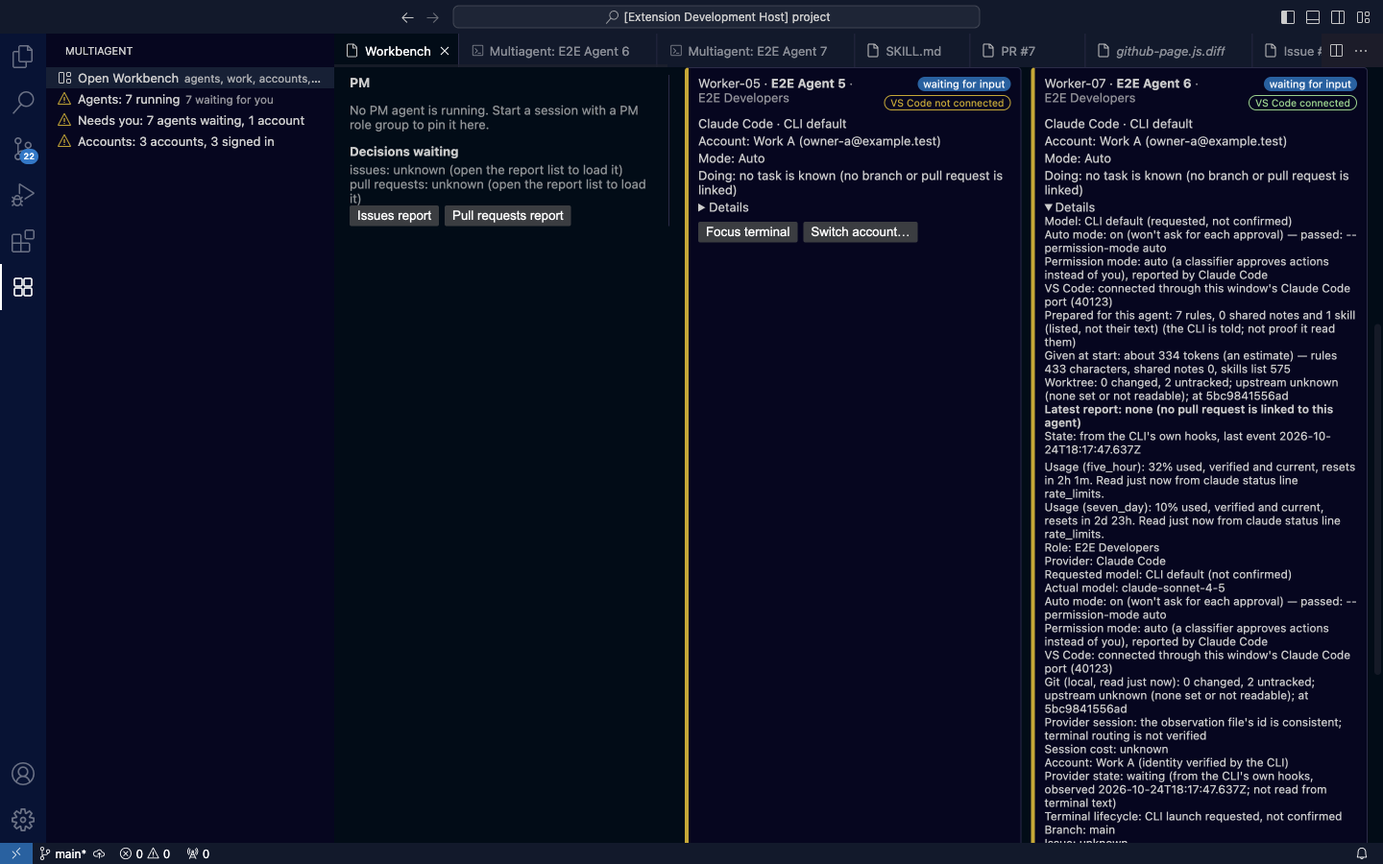
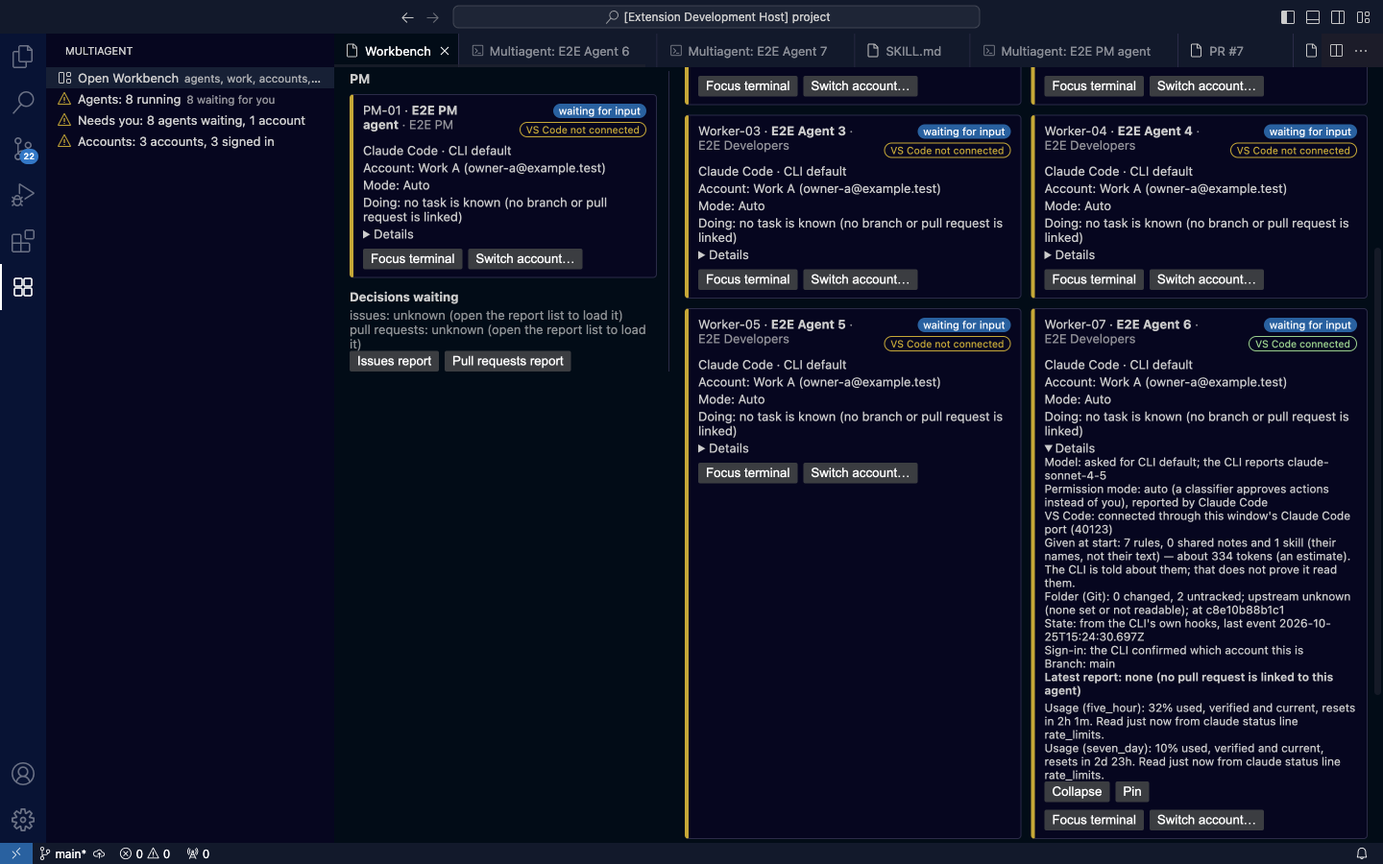
fix(workbench): a card's Details say each thing once in plain words; nothing on the card is repeated there (Refs #357, #360)

Changed region(s): [[0.5, 0.0311, 1.0, 0.9956], [0.25, 0.0933, 0.4688, 0.4356], [0.0938, 0.0933, 0.2188, 0.1556]]

diff --git a/test/commandCenter/page.test.js b/test/commandCenter/page.test.js
@@ -8,6 +8,10 @@ const { renderPage, SCRIPT } = require('../../src/commandCenter/page');
 const NONCE = 'AbCdEfGhIjKlMnOp-_12';
 const html = () => renderPage({ nonce: NONCE });
 
+// The page draws the Details the model decided (#357): the cards here get them from the model's own function.
+const { detailFacts } = require('../../src/commandCenter/model');
+const withFacts = (card) => ({ ...card, facts: detailFacts(card, card.details ?? []) });
+
 test('the policy allows nothing from outside: no remote source, no frames, no forms, only this page\'s own nonce', () => {
   const page = html();
   const policy = /Content-Security-Policy" content="([^"]+)"/.exec(page)[1];
@@ -79,7 +83,7 @@ test('the page really runs: given a state it draws every card, the PM panel and 
   vm.runInNewContext(SCRIPT, sandbox);
   assert.equal(JSON.stringify(posted), JSON.stringify([{ type: 'ready' }]), 'the page announces itself and nothing else');
   const hostile = '<img src=x onerror=alert(1)>';
-  const card = (id, over = {}) => ({ id, name: hostile, role: 'worker', roleName: 'Worker', provider: 'Claude Code', account: 'Main', model: 'sonnet', modelNote: 'requested, not confirmed', status: { state: 'working', text: 'working', source: 'from the CLI\'s own hooks' }, terminalOpen: true, task: { issue: 1, pullRequest: 7, text: 'Issue #1 · PR #7' }, worktree: '2 changed, 0 untracked; 1 ahead, 0 behind its upstream', report: { lines: ['Latest report (PR #7): PM report current', 'User can: open the Command Center', 'Review: approval approved · CI passing'] }, summary: 's', details: ['Branch: x'], quota: { lines: ['Usage (five_hour): 42% used'], policy: '', gate: 'warn' }, autoMode: 'Auto mode: on', alert: 'quota: near the limit', pinned: false, collapsed: false, ...over });
+  const card = (id, over = {}) => withFacts({ id, name: hostile, role: 'worker', roleName: 'Worker', provider: 'Claude Code', account: 'Main', model: 'sonnet', modelNote: 'requested, not confirmed', status: { state: 'working', text: 'working', source: 'from the CLI\'s own hooks' }, terminalOpen: true, task: { issue: 1, pullRequest: 7, text: 'Issue #1 · PR #7' }, worktree: '2 changed, 0 untracked; 1 ahead, 0 behind its upstream', report: { lines: ['Latest report (PR #7): PM report current', 'User can: open the Command Center', 'Review: approval approved · CI passing'] }, summary: 's', details: ['Branch: x'], quota: { lines: ['Usage (five_hour): 42% used'], policy: '', gate: 'warn' }, autoMode: 'Auto mode: on', alert: 'quota: near the limit', pinned: false, collapsed: false, ...over });
   listeners.message({ data: { type: 'state', state: { layout: { mode: 'grid', order: [], collapsed: [], pinned: [] }, pm: [card('pm-1', { role: 'pm' })], agents: [card('a-1'), card('a-2', { collapsed: true, task: { issue: null, pullRequest: null, text: 'no task is known' } }), card('a-3', { status: { state: 'waiting', text: 'waiting for input', source: 'from the CLI\'s own hooks' }, ide: 'VS Code: not connected (no lock file)' }), card('a-6', { ide: "VS Code: connected through this window's Claude Code port (40002)", trust: 'Folder trust: not pre-written, so Codex asks once (x)' }), card('a-4', { status: { state: 'ended', text: 'ended', source: 'from the CLI\'s own hooks' }, permission: { text: 'Auto mode is not in effect: Claude Code reports default (asks before actions)', attention: true, lines: ['Next: reopen the session'] } }), card('a-5', { status: { state: 'unknown', text: 'state unknown', source: 'no hook evidence' } })], accounts: [
       { id: 'acct', label: 'Main', provider: 'Claude Code', signIn: 'sign-in checked', identity: 'identity verified (abcd1234)', issues: ['Another profile logs in to the same real account.'], plan: null, windows: [{ window: 'five_hour', label: '5-hour', usedPercent: 42, text: '42% used', kind: 'actual', trust: 'verified and current', resets: 'resets in 2h', resetsAt: '2026-10-22T12:00:00.000Z', read: 'read 1m ago', source: 'claude status line rate_limits' }], usageKnown: true, reason: null, policy: 'Limits: warn at 80% used.', gate: 'block', alert: 'new agents on this account are held back', agents: ['Worker One'], agentCount: 3 },
       { id: 'acct-2', label: `Codex <b>${hostile}`, provider: 'Codex CLI', signIn: 'sign-in not checked in this window', identity: 'identity unknown', issues: [], plan: 'plus', windows: [], usageKnown: false, reason: { short: 'no Codex session log yet', detail: 'This account has no session log yet.', hint: 'Run Codex once with this account.', next: { action: 'details', label: 'Open the account details' } }, policy: 'Limits: none set.', gate: null, alert: null, agents: [], agentCount: 0 }
@@ -110,7 +114,7 @@ test('the page really runs: given a state it draws every card, the PM panel and 
   const sourceBox = firstAccount.children.flatMap((child) => child.children).find((child) => child.tag === 'details');
   assert.ok(sourceBox && sourceBox.textContent.includes('from claude status line rate_limits'), 'the source is under Details');
   for (const expected of ['waiting for input', 'ended', 'state unknown', 'working']) assert.ok(text.includes(expected), `the status text "${expected}" is drawn on a card`);
-  assert.ok(text.includes('Worktree: 2 changed, 0 untracked; 1 ahead, 0 behind its upstream'), 'the card itself carries one line about the working folder');
+  assert.ok(text.includes('Folder (Git): 2 changed, 0 untracked; 1 ahead, 0 behind its upstream'), 'the card itself carries one line about the working folder');
   for (const expected of ['Latest report (PR #7): PM report current', 'User can: open the Command Center', 'Review: approval approved · CI passing']) assert.ok(text.includes(expected), `the latest report is drawn: ${expected}`);
   assert.ok(nodes.some((entry) => entry.tag === 'span' && entry.className === 'badge badge-waiting' && entry.textContent === 'waiting for input'));
   assert.ok(nodes.some((entry) => entry.tag === 'span' && entry.className === 'badge badge-ended' && entry.textContent === 'ended'));
@@ -218,13 +222,13 @@ test('a card says in four plain lines who it is, which account, which mode and w
   const app = node('div');
   const listeners = {};
   vm.runInNewContext(SCRIPT, { document: { getElementById: () => app, createElement: node }, acquireVsCodeApi: () => ({ postMessage() {} }), window: { addEventListener: (name, fn) => { listeners[name] = fn; } } });
-  const card = { id: 'a-1', codename: 'Worker-01', name: 'Agent One', role: 'worker', roleName: 'Developers', provider: 'Claude Code', account: 'Work A (owner-a@example.test)', model: 'CLI default', modelNote: 'requested, not confirmed', mode: 'Auto', status: { state: 'unknown', text: 'state unknown', source: 'no hook evidence' }, terminalOpen: true, task: { issue: null, pullRequest: null, text: 'no task is known' }, worktree: '0 changed; upstream unknown; at e68869580e0a', report: { lines: ['Latest report: none'] }, summary: '', details: ['Branch: x'], quota: { lines: [], policy: '', gate: null }, autoMode: 'Auto mode: on (won\'t ask)', ide: 'VS Code: not connected (no lock file)', injected: 'Prepared for this agent: 7 rules', alert: null, pinned: false, collapsed: false };
+  const card = withFacts({ id: 'a-1', codename: 'Worker-01', name: 'Agent One', role: 'worker', roleName: 'Developers', provider: 'Claude Code', account: 'Work A (owner-a@example.test)', model: 'CLI default', modelNote: 'requested, not confirmed', mode: 'Auto', status: { state: 'unknown', text: 'state unknown', source: 'no hook evidence' }, terminalOpen: true, task: { issue: null, pullRequest: null, text: 'no task is known' }, worktree: '0 changed; upstream unknown; at e68869580e0a', report: { lines: ['Latest report: none'] }, summary: '', details: ['Branch: x'], quota: { lines: [], policy: '', gate: null }, autoMode: 'Auto mode: on (won\'t ask)', ide: 'VS Code: not connected (no lock file)', givenLine: 'Given at start: 7 rules and 0 shared notes.', alert: null, pinned: false, collapsed: false });
   listeners.message({ data: { type: 'state', state: { layout: { mode: 'grid', order: [], collapsed: [], pinned: [] }, pm: [], agents: [card], accounts: [], alerts: [], decisions: { issues: { known: false, text: 'x' }, pullRequests: { known: false, text: 'y' } }, notes: [] } } });
   const body = nodes.filter((entry) => entry.className === 'card-body').at(-1);
   const top = body.children.filter((child) => child.tag === 'div').map((child) => child.textContent);
   assert.deepEqual(top, ['Claude Code · CLI default', 'Account: Work A (owner-a@example.test)', 'Mode: Auto', 'Doing: no task is known']);
   const details = body.children.find((child) => child.tag === 'details');
-  for (const hidden of ['Worktree: 0 changed', 'Prepared for this agent', 'State: no hook evidence', 'VS Code: not connected (no lock file)']) {
+  for (const hidden of ['Folder (Git): 0 changed', 'Given at start: 7 rules', 'State: no hook evidence', 'VS Code: not connected (no lock file)', 'Branch: x']) {
     assert.ok(details.textContent.includes(hidden), `${hidden} is in the details`);
     assert.equal(top.some((line) => line.includes(hidden)), false, `${hidden} is not in the plain lines`);
   }
@@ -247,13 +251,13 @@ test('a card\'s Details that the person opened stay open when the cards are draw
   }
   const app = node('div');
   vm.runInNewContext(SCRIPT, { document: { getElementById: () => app, createElement: node }, acquireVsCodeApi: () => ({ postMessage() {} }), window: { addEventListener: (name, fn) => { listeners[name] = fn; } } });
-  const card = { id: 'a-1', name: 'Agent', role: 'worker', roleName: 'Worker', provider: 'Claude Code', account: 'Main', model: 'sonnet', modelNote: 'requested', status: { state: 'working', text: 'working', source: 'hooks' }, terminalOpen: true, task: { issue: null, pullRequest: null, text: 'no task' }, worktree: 'clean', report: { lines: [] }, summary: '', details: [], quota: { lines: [], policy: '', gate: null }, autoMode: null, alert: null, pinned: false, collapsed: false, given: 'Given at start: about 50 tokens (an estimate) — rules 100 characters, shared notes 0, skills list 80' };
+  const card = withFacts({ id: 'a-1', name: 'Agent', role: 'worker', roleName: 'Worker', provider: 'Claude Code', account: 'Main', model: 'sonnet', modelNote: 'requested', status: { state: 'working', text: 'working', source: 'hooks' }, terminalOpen: true, task: { issue: null, pullRequest: null, text: 'no task' }, worktree: 'clean', report: { lines: [] }, summary: '', details: [], quota: { lines: [], policy: '', gate: null }, autoMode: null, alert: null, pinned: false, collapsed: false, givenLine: 'Given at start: 2 rules and 0 shared notes — about 50 tokens (an estimate).' });
   const state = { layout: { mode: 'grid', order: [], collapsed: [], pinned: [] }, pm: [], agents: [card], accounts: [], alerts: [], decisions: { issues: { known: false, text: 'x' }, pullRequests: { known: false, text: 'y' } }, notes: [] };
   listeners.message({ data: { type: 'state', state } });
   const detailsOf = () => nodes.filter((entry) => entry.tag === 'details').at(-1);
   const first = detailsOf();
   assert.equal(first.open, false);
-  assert.ok(first.textContent.includes('Given at start: about 50 tokens'), 'the size line is in Details');
+  assert.ok(first.textContent.includes('about 50 tokens'), 'the size line is in Details');
   first.open = true;
   first.listeners.toggle();
   listeners.message({ data: { type: 'state', state } });

diff --git a/test/commandCenter/model.test.js b/test/commandCenter/model.test.js
@@ -412,3 +412,54 @@ test('the card\'s Details carry what the agent was given, from its session (#359
   assert.match(card.injected, /and 1 skill \(listed, not their text\)/);
   assert.equal(build([session()]).agents[0].given, null, 'nothing is said when it is not known');
 });
+
+test('a card\'s Details say each thing once, in plain words, and only what the card does not show already (#357)', () => {
+  const { describeGiven } = require('../../src/commandCenter/model');
+  const ide = "VS Code: connected through this window's Claude Code port (40123)";
+  // The overview's tooltip as the #384 screenshot showed it: most of it repeats the card.
+  const tooltip = ['Role: E2E Developers', 'Provider: Claude Code', 'Requested model: CLI default (not confirmed)', 'Actual model: claude-sonnet-4-5',
+    'Auto mode: on (won\'t ask for each approval) — passed: --permission-mode auto', 'Permission mode: auto (a classifier approves actions instead of you), reported by Claude Code', ide,
+    'Git (local, read just now): 0 changed, 2 untracked; at 5bc9841556ad', "Provider session: the observation file's id is consistent; terminal routing is not verified", 'Session cost: unknown',
+    'Account: Work A (identity verified by the CLI)', 'Provider state: waiting (from the CLI\'s own hooks)', 'Terminal lifecycle: CLI launch requested, not confirmed', 'Branch: main', 'Issue: unknown',
+    'Pull request: no open pull request', 'CI: unknown', 'The role group is read from its current definition. Its rules are not sent to the CLI yet, so editing it does not change what an agent that is already started was told.', 'Fields marked unknown have no verified source yet.'];
+  const [card] = buildCards({
+    sessions: [session({ requestedModel: null, ideLabel: ide, autoModeLabel: 'Auto mode: on (won\'t ask for each approval) — passed: --permission-mode auto', requestedAutoMode: 'on', reportedPermissionMode: { mode: 'auto' }, injectedCounts: { rules: 7, memories: 0, skills: 1 }, injectedSizes: { rules: { chars: 433, tokens: 100 }, memories: { chars: 0, tokens: 0 }, skills: { chars: 575, tokens: 150 }, total: { chars: 1008, tokens: 334 } } })],
+    agents: [agent({ tooltip })], accounts: [account()], roles
+  }).agents;
+  const texts = card.facts.map((fact) => fact.text);
+  assert.equal(texts[0], 'Model: asked for CLI default; the CLI reports claude-sonnet-4-5');
+  for (const [word, times] of [[/auto mode|permission mode/i, 1], [/^VS Code/, 1], [/Given at start/, 1], [/^Folder \(Git\)/, 1], [/^State: /, 1]]) {
+    assert.equal(texts.filter((text) => word.test(text)).length, times, `${word} once: ${texts.join(' | ')}`);
+  }
+  for (const repeated of [/^Role:/, /^Provider:/, /^Requested model:/, /^Actual model:/, /^Account:/, /^Provider state:/, /^Terminal lifecycle:/, /^Issue:/, /^Pull request:/, /^Git/, /unknown$/, /^Provider session:/, /^Fields marked/, /^The role group is read/]) {
+    assert.equal(texts.some((text) => repeated.test(text)), false, `${repeated} is not repeated in Details`);
+  }
+  assert.ok(texts.includes('Branch: main'));
+  assert.equal(texts.some((text) => /session:/i.test(text) && !/^State:/.test(text)), false, 'the normal CLI session says nothing');
+  const [mismatched] = buildCards({ sessions: [session()], agents: [agent({ tooltip: ['Provider session: the CLI session changed, so its evidence is turned off for this session'] })], accounts: [account()], roles }).agents;
+  assert.ok(mismatched.facts.some((fact) => fact.text === 'CLI session: the CLI session changed, so its evidence is turned off for this session'), 'a problem with it is said');
+  assert.ok(texts.includes('Sign-in: the CLI confirmed which account this is'));
+  assert.ok(texts.includes(describeGiven({ rules: 7, memories: 0, skills: 1 }, { rules: { chars: 433, tokens: 100 }, memories: { chars: 0, tokens: 0 }, skills: { chars: 575, tokens: 150 }, total: { chars: 1008, tokens: 334 } })));
+  assert.ok(texts.length <= 10, `${texts.length} lines: ${texts.join(' | ')}`);
+});
+
+test('the Details say the mode that was asked for only when the CLI has not reported one, and mark what needs a look (#357)', () => {
+  const [asked] = build([session({ autoModeLabel: 'Auto mode: on (synthetic)' })]).agents;
+  assert.ok(asked.facts.some((fact) => fact.text === 'Auto mode: on (synthetic)'));
+  const [fell] = build([session({ requestedAutoMode: 'on', reportedPermissionMode: { mode: 'default' }, ideLabel: 'VS Code: not connected (no lock file)', trustLabel: 'Folder trust: not pre-written, so Codex asks once (x)' })]).agents;
+  const alerts = fell.facts.filter((fact) => fact.alert).map((fact) => fact.text);
+  assert.equal(fell.facts.some((fact) => fact.text === 'Auto mode: on (synthetic)'), false, 'the reported mode takes its place');
+  assert.equal(alerts.length, 3, alerts.join(' | '));
+  assert.ok(alerts.some((text) => /not connected/.test(text)) && alerts.some((text) => /asks once/.test(text)));
+  assert.equal(fell.facts.find((fact) => fact.text === 'Branch: feat/x').alert, false);
+  assert.ok(fell.facts.some((fact) => fact.text === 'CI: passing'), 'a known CI result is kept');
+  assert.ok(build([session()]).agents[0].facts.some((fact) => fact.text === 'Model: asked for sonnet; the CLI has not said which one it uses yet'));
+});
+
+test('what an agent was given is one line: what was prepared, about how many tokens, and what that does not prove (#357, #359)', () => {
+  const { describeGiven } = require('../../src/commandCenter/model');
+  const size = (chars, tokens) => ({ chars, tokens });
+  assert.equal(describeGiven({ rules: 7, memories: 1, skills: 2 }, { rules: size(1234, 300), memories: size(10, 3), skills: size(456, 114), total: size(1700, 1450) }), 'Given at start: 7 rules, 1 shared note and 2 skills (their names, not their text) — about 1,450 tokens (an estimate). The CLI is told about them; that does not prove it read them.');
+  assert.equal(describeGiven({ rules: 1, memories: 0 }), 'Given at start: 1 rule and 0 shared notes. The CLI is told about them; that does not prove it read them.');
+  assert.equal(describeGiven({ rules: -1, memories: 0 }), 'Given at start: unknown (it was not started in this window)');
+});

diff --git a/src/commandCenter/model.js b/src/commandCenter/model.js
@@ -93,6 +93,60 @@ function modeWord(label) {
   return 'unknown';
 }
 
+// The lines of the overview's tooltip that say something the card does not already say elsewhere (#357): the role, provider,
+// account, mode, VS Code, folder trust, Git reading, state, issue and pull request are all on the card or in its Details already.
+// The overview's general note that a role group's rules are not sent is left out: "Given at start" says what this agent was given.
+const EXTRA_LINES = [
+  [/^Branch: (?!unknown$)/, (text) => text],
+  [/^CI: (?!unknown$)/, (text) => text],
+  [/^Session cost: (?!unknown$)/, (text) => text],
+  [/^Account: .*\(identity verified by the CLI\)$/, () => 'Sign-in: the CLI confirmed which account this is'],
+  [/^Instructions: /, (text) => text],
+  // Only when something is wrong with how its events are matched to this terminal; the normal case says nothing.
+  [/^Provider session: (?!the observation file's id is consistent)/, (text) => text.replace(/^Provider session:/, 'CLI session:')]
+];
+function extraLines(tooltipLines) {
+  const out = [];
+  for (const text of tooltipLines) {
+    const rule = EXTRA_LINES.find(([pattern]) => pattern.test(text));
+    if (rule) out.push(rule[1](text));
+  }
+  return out;
+}
+
+/** What the agent was given at its start, in one line (#359, #357): what was prepared, about how many tokens, and what that proves. */
+function describeGiven(counts, sizes) {
+  if (!isPlain(counts) || !isCount(counts.rules) || !isCount(counts.memories)) return 'Given at start: unknown (it was not started in this window)';
+  const skills = isCount(counts.skills) ? counts.skills : null;
+  const parts = [plural(counts.rules, 'rule'), plural(counts.memories, 'shared note'), ...(skills === null ? [] : [`${plural(skills, 'skill')} (their names, not their text)`])];
+  const tokens = describeSizes(sizes) ? ` — about ${sizes.total.tokens.toLocaleString('en-US')} tokens (an estimate)` : '';
+  return `Given at start: ${parts.slice(0, -1).join(', ')} and ${parts.at(-1)}${tokens}. The CLI is told about them; that does not prove it read them.`;
+}
+
+/**
+ * The Details of a card, in order and each said once (#357): the model, the mode, VS Code, folder trust, what it was given, a task
+ * typed into it, its folder, where its state comes from, then what only the overview knows. `alert` marks what needs a look.
+ */
+function detailFacts(card, tooltipLines) {
+  const facts = [];
+  const add = (text, alert = false) => { if (typeof text === 'string' && text !== '') facts.push({ text, alert }); };
+  const actual = (tooltipLines.find((text) => /^Actual model: /.test(text)) ?? '').replace(/^Actual model: /, '');
+  add(`Model: asked for ${card.model}; ${actual && actual !== UNKNOWN ? `the CLI reports ${actual}` : 'the CLI has not said which one it uses yet'}`);
+  // The mode the CLI reports, when it does; otherwise the mode that was asked for. One of the two, never both.
+  if (card.permission && (card.permissionReported || card.permission.attention || !card.autoMode)) {
+    add(card.permission.text, card.permission.attention);
+    for (const text of card.permission.lines) add(text);
+  } else add(card.autoMode);
+  if (card.ide) add(card.ide, /not connected/.test(card.ide));
+  if (card.trust) add(card.trust, /asks once/.test(card.trust));
+  add(card.givenLine);
+  if (card.assigned) add(`Handed: ${card.assigned}`);
+  add(`Folder (Git): ${card.worktree}`);
+  add(`State: ${card.status.source}`);
+  for (const text of extraLines(tooltipLines)) add(text);
+  return facts;
+}
+
 function buildCards(input) {
   const { sessions, agents = [], accounts = [], roles = {}, reports = {}, assignments = {}, emails = {} } = isPlain(input) ? input : {};
   // The e-mail address of each account from this window's last sign-in check (#357): shown on the card only, never stored.
@@ -148,8 +202,12 @@ function buildCards(input) {
       trust: line(session.trustLabel, '', 260) || null,
       injected: describeInjected(session.injectedCounts),
       given: describeSizes(session.injectedSizes),
+      givenLine: describeGiven(session.injectedCounts, session.injectedSizes),
+      permissionReported: isPlain(session.reportedPermissionMode),
       alert: gate === 'block' ? 'quota: new agents on this account are held back' : gate === 'confirm' ? 'quota: needs confirmation' : gate === 'warn' ? 'quota: near the limit' : null
     });
+    const card = cards[cards.length - 1];
+    card.facts = detailFacts(card, details);
   }
   return {
     pm: cards.filter((card) => isPm(card.role)),
@@ -452,4 +510,4 @@ function applyLayoutMessage(layout, message) {
   return lay;
 }
 
-module.exports = { describeSizes, describeInjected, buildSkills, SKILL_ACTIONS, modeWord, buildCards, buildAccountRows, relative, ACCOUNT_ACTIONS, describeDecisions, normalizeLayout, arrange, parseMessage, applyLayoutMessage, statusOf, COMMANDS, LAYOUTS, MAX_CARDS, MAX_IDS, STATES, TABS, TARGETS };
+module.exports = { describeSizes, describeInjected, describeGiven, detailFacts, buildSkills, SKILL_ACTIONS, modeWord, buildCards, buildAccountRows, relative, ACCOUNT_ACTIONS, describeDecisions, normalizeLayout, arrange, parseMessage, applyLayoutMessage, statusOf, COMMANDS, LAYOUTS, MAX_CARDS, MAX_IDS, STATES, TABS, TARGETS };

diff --git a/test/e2e/steps.js b/test/e2e/steps.js
@@ -1009,8 +1009,8 @@ const ITEMS = [
           await card.waitFor({ timeout: 30000 });
           await card.locator('summary', { hasText: 'Details' }).first().click();
           const details = await card.locator('details').first().innerText();
-          check('the card says what it was given', details, /Prepared for this agent: \d+ rules?, \d+ shared notes? and 1 skill \(listed, not their text\)/);
-          check('and how much, as an estimate', details, /Given at start: about [\d,]+ tokens \(an estimate\) — rules [\d,]+ characters, shared notes [\d,]+, skills list [\d,]+/);
+          // One line (#357): what it was given, and about how many tokens.
+          check('the card says what it was given, and how much as an estimate', details, /Given at start: \d+ rules?, \d+ shared notes? and 1 skill \(their names, not their text\) — about [\d,]+ tokens \(an estimate\)/);
           for (let tries = 0; tries < 5; tries += 1) {
             try { await frame.locator('section[data-id]', { hasText: 'E2E Agent 7' }).first().scrollIntoViewIfNeeded({ timeout: 5000 }); break; } catch { await page.waitForTimeout(500); }
           }
@@ -1053,6 +1053,12 @@ const ITEMS = [
           check('and not the warning the other cards have', (await card.locator('.tag').allInnerTexts()).join(' | '), (text) => !/not connected/.test(text));
           await card.locator('summary', { hasText: 'Details' }).first().click();
           check('its details say how', await card.locator('details').first().innerText(), new RegExp(`VS Code: connected through this window's Claude Code port \\(${port}\\)`));
+          // The Details say each thing once, in plain words (#357): one line for the mode, one for VS Code, one for the model.
+          const detailLines = (await card.locator('details .detail').allInnerTexts()).map((text) => text.trim()).filter(Boolean);
+          for (const [what, pattern] of [['the mode', /auto mode|permission mode/i], ['VS Code', /^VS Code/], ['the model', /^Model:/], ['the folder', /^Folder \(Git\)/]]) {
+            check(`${what} is said once in Details`, detailLines.filter((text) => pattern.test(text)).length, 1);
+          }
+          check('nothing on the card is repeated there', detailLines.join(' | '), (text) => !/Role:|Provider:|Requested model:|Provider state:|Terminal lifecycle:|Fields marked unknown/.test(text));
           check('the lock file\'s token is nowhere on the screen', await frame.locator('body').innerText(), (text) => !text.includes('synthetic-token-never-read'));
           // The Workbench draws its cards again when an agent reports: find the card again if it was redrawn under the scroll.
           for (let tries = 0; tries < 5; tries += 1) {

diff --git a/src/commandCenter/page.js b/src/commandCenter/page.js
@@ -93,22 +93,10 @@ const SCRIPT = String.raw`
       details.addEventListener('toggle', function () { if (details.open) openDetails[card.id] = true; else delete openDetails[card.id]; });
       details.appendChild(el('summary', null, 'Details'));
       var more = function (text, className) { details.appendChild(el('div', className || 'detail', text)); };
-      more('Model: ' + card.model + ' (' + card.modelNote + ')');
-      if (card.autoMode) more(card.autoMode);
-      if (card.permission) {
-        more(card.permission.text, card.permission.attention ? 'detail alert' : 'detail');
-        card.permission.lines.forEach(function (text) { more(text); });
-      }
-      if (card.ide) more(card.ide, /not connected/.test(card.ide) ? 'detail alert' : 'detail');
-      if (card.trust) more(card.trust, /asks once/.test(card.trust) ? 'detail alert' : 'detail');
-      if (card.injected) more(card.injected);
-      if (card.given) more(card.given);
-      if (card.assigned) more('Handed: ' + card.assigned);
-      more('Worktree: ' + card.worktree);
+      // Each fact once, in plain words (#357); the extension decides the lines and which need a look.
+      (card.facts || []).forEach(function (fact) { more(fact.text, fact.alert ? 'detail alert' : 'detail'); });
       card.report.lines.forEach(function (text, index) { more(text, index === 0 ? 'detail report-head' : 'detail'); });
-      more('State: ' + card.status.source);
       details.appendChild(quotaBlock(card));
-      card.details.forEach(function (text) { more(text); });
       var tools = el('div', 'row');
       tools.appendChild(button(card.collapsed ? 'Expand' : 'Collapse', function () { post({ type: 'toggleCollapse', id: card.id }); }));
       tools.appendChild(button(card.pinned ? 'Unpin' : 'Pin', function () { post({ type: 'togglePin', id: card.id }); }));
